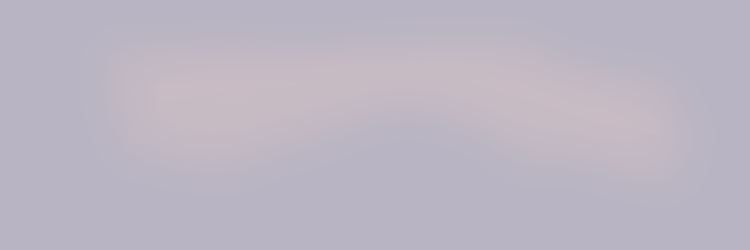
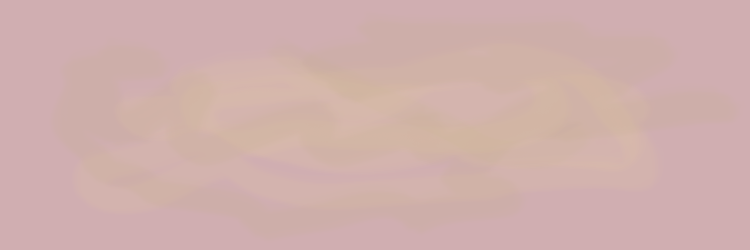
autumn: ground color changed. skybox added.

diff --git a/Autumn.js b/Autumn.js
@@ -5,10 +5,17 @@
 function Autumn() {
     var ground = new Ground();
     var autumnGround;
-    var autumnGroundColor = "#6C6632";
+    //var autumnGroundColor = "#6C6632";
+    var autumnGroundColor = "#FDD25C";
+    var autumnSkybox = new Skybox();
+    var skyboxImagePrefix = "images/autumn/skybox-";
 
     this.load = function(scene){
         console.log('Autumn');
+        
+        //skybox
+        autumnSkybox.load(scene, skyboxImagePrefix);
+        
         //autumnGround
         autumnGround = ground.doGround(ground.doGroundGeometry(), autumnGroundColor);
         scene.add(autumnGround);
